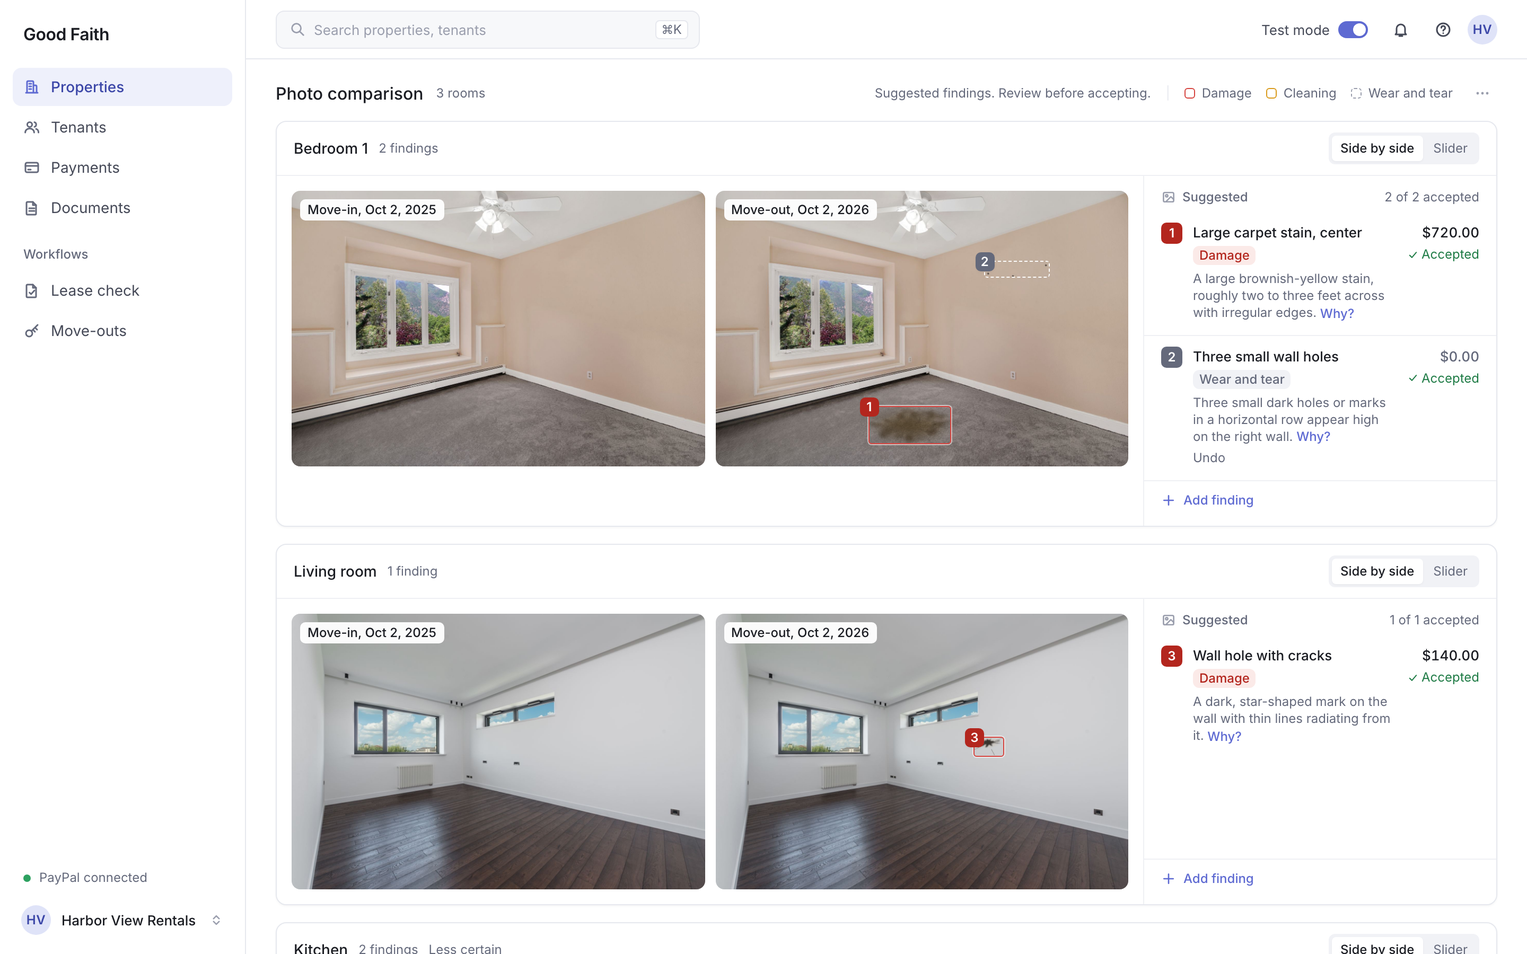
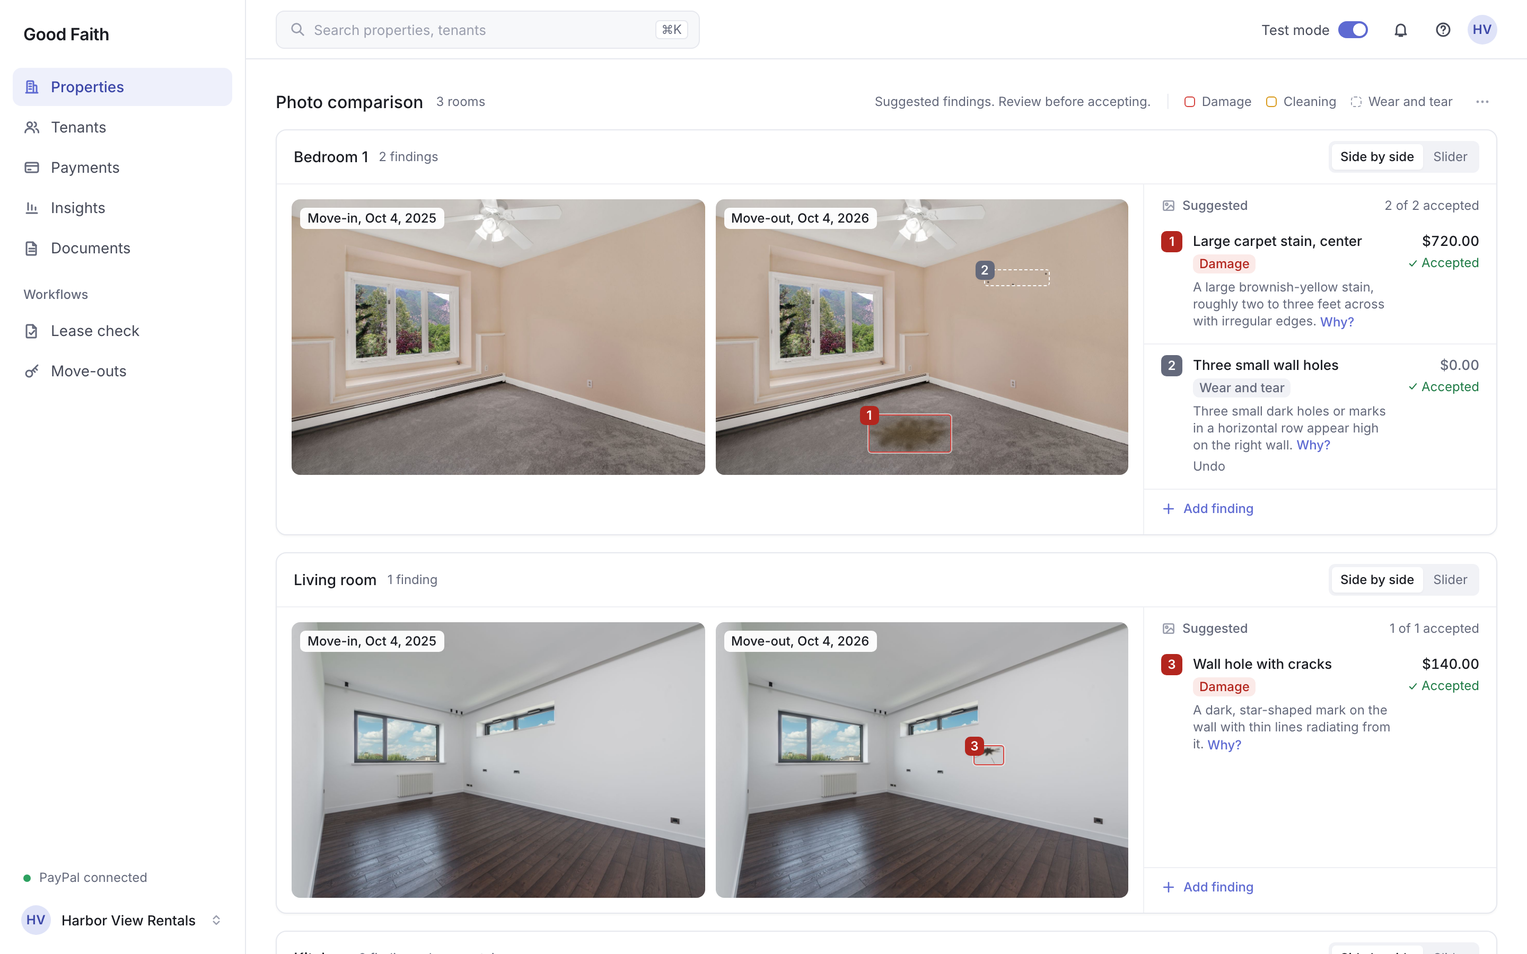
Audit before judging: every route checked, five-state copy, and the review's fixes
docs/AUDIT.md lists every page and API route, what was checked at desktop and
phone width in the owner workspace and a demo copy, and what to do before the
repository goes public. Stale California-only copy, the deploy doc, two README
screenshots and a dead Florida source are updated.

Review fixes: a settlement is refused when it would send more than the deposit
still holds after a PayPal dispute refund; the tenants' advocate and photo
allowances count per tenancy, so a new link no longer resets them; notices not
recorded after move-out read "Not recorded"; the lease check labels its law
cards with their state; small-claims limits split $12,500 / $6,250; the
settled unit's Payments tab reads "Deductions as settled"; no x-powered-by.

diff --git a/src/lib/limits.ts b/src/lib/limits.ts
@@ -14,8 +14,9 @@ import { currentSession } from "./session-server";
 // A Claude job is one unit however many calls it makes: an inspection is one call per room (up to
 // GOOD_FAITH_INSPECT_ROOMS), a close-out run up to twelve agent steps plus the steps after the approval, a tenant
 // advocate run up to eight steps, a negotiation run (the landlord's negotiator and the tenants' advocate taking turns)
-// at most six calls, counted as 'advocate' under the landlord's session. The tenants' own page has no session, so its jobs and uploads count under the tenant
-// link (takeTenantAllowance) with their own per-link limits, toward the same totals. The totals
+// at most six calls, counted as 'advocate' under the landlord's session. The tenants' own page has no session, so its jobs and uploads count under the
+// tenancy the tenant link is for (takeTenantAllowance), with their own per-tenancy limits, toward the same totals: a new
+// link for the same tenancy starts no new count. The totals
 // and the Anthropic console's spend limit are the real ceiling; the per-session limits are soft, since a new sign-in
 // is a new session.
 
@@ -39,7 +40,7 @@ export function dailyLimits() {
       invoice: envInt("GOOD_FAITH_DAILY_INVOICE", 5),
       tenancy: envInt("GOOD_FAITH_DAILY_TENANCY", 10),
       upload_mb: envInt("GOOD_FAITH_DAILY_UPLOAD_MB", 100),
-      advocate: envInt("GOOD_FAITH_DAILY_ADVOCATE", 3), // the landlord's negotiator runs (the tenants' advocate counts per link)
+      advocate: envInt("GOOD_FAITH_DAILY_ADVOCATE", 3), // the landlord's negotiator runs (the tenants' advocate counts per tenancy)
     } satisfies Record<UsageKind, number>,
     total: {
       lease: aiTotal,
@@ -50,9 +51,10 @@ export function dailyLimits() {
       upload_mb: envInt("GOOD_FAITH_DAILY_UPLOAD_MB_TOTAL", 400),
       advocate: aiTotal,
     } satisfies Record<UsageKind, number>,
-    /** What one tenant link may use a day: the tenants' advocate runs, and the megabytes of the photos they add to a
-     *  dispute. Counted under the link (tl:<link id>), not a session, toward the same totals. */
-    perTenantLink: {
+    /** What the tenants of one tenancy may use a day from their page: the advocate's runs, and the megabytes of the
+     *  photos they add to a dispute. Counted under the tenancy (tn:<tenancy id>), not a session or a link (a landlord can
+     *  make a new link at any time), toward the same totals. */
+    perTenancy: {
       advocate: envInt("GOOD_FAITH_DAILY_ADVOCATE", 3),
       upload_mb: envInt("GOOD_FAITH_DAILY_TENANT_UPLOAD_MB", 20),
     },
@@ -87,12 +89,12 @@ export async function takeAllowance(kind: UsageKind, units = 1): Promise<Allowan
   return take(session.sid, kind, units, session.kind === "owner" ? null : dailyLimits().perSession[kind]);
 }
 
-/** takeAllowance for the tenants' own page, which has no session: the units are counted under the tenant link that
- *  asked (one link per tenancy is live at a time), with that link's daily limit, toward the same day's totals. The
- *  refusal speaks to the tenants, not to a landlord trying the demo. */
-export async function takeTenantAllowance(linkId: string, kind: "advocate" | "upload_mb", units = 1): Promise<Allowance> {
-  const n = dailyLimits().perTenantLink[kind];
-  return take(`tl:${linkId}`, kind, units, n, (reason) => kind === "advocate"
+/** takeAllowance for the tenants' own page, which has no session: the units are counted under the tenancy the tenant
+ *  link is for, so a new link (Make a new link revokes the old one) starts no new count, with the per-tenancy daily
+ *  limit, toward the same day's totals. The refusal speaks to the tenants, not to a landlord trying the demo. */
+export async function takeTenantAllowance(tenancyId: string, kind: "advocate" | "upload_mb", units = 1): Promise<Allowance> {
+  const n = dailyLimits().perTenancy[kind];
+  return take(`tn:${tenancyId}`, kind, units, n, (reason) => kind === "advocate"
     ? reason === "session"
       ? `Your advocate can write your case ${n} times a day, and today's are used. You can still send your reasons as they are, or ask again tomorrow.`
       : "Your advocate can't take more cases today. You can still send your reasons as they are, or ask again tomorrow."

diff --git a/src/lib/settlement.ts b/src/lib/settlement.ts
@@ -6,7 +6,7 @@ import { depositBlock } from "./demo-pool";
 import { usd } from "./deductions";
 import { returnFailed, wasPaid } from "./invoice-status";
 import { PayPalRefused, SANDBOX, sendPayout, type Invoice } from "./paypal";
-import { railFor, REFUND_WINDOW_DAYS } from "./refund-rail";
+import { railFor, REFUND_WINDOW_DAYS, settlementRoom } from "./refund-rail";
 
 // The settlement's money: once the tenants accepted and the landlord approved, the amount agreed on top of the
 // statement's refund goes back through PayPal. The rail is the close-out's own rule (railFor, refund-rail.ts, read
@@ -20,7 +20,8 @@ import { railFor, REFUND_WINDOW_DAYS } from "./refund-rail";
 // settlementPlan, recomputed from the database and PayPal's live state right before PayPal is called, refuses a deposit
 // this workspace doesn't own (a demo copy's shared template payment), a live PayPal environment without a landlord
 // sign-in, PayPal unreachable, an unpaid deposit, a missing written agreement where the state needs one, a statement
-// whose own refund hasn't gone yet, and an amount the payment can't cover; and once the whole deposit went back (New
+// whose own refund hasn't gone yet, an amount the payment can't cover, and an amount more than the deposit still holds
+// after every return (settlementRoom: a PayPal dispute refund can leave less than was agreed); and once the whole deposit went back (New
 // York's forfeited deductions under a live dispute, refund-rail.ts), it moves no money at all. The close-out's other blockers (a charge
 // missing its documents, and the pack's own: Washington's move-in checklist, Florida's claim notice, New York's day 14,
 // Texas's forwarding address) limit what a landlord may keep, or when the statement's refund is owed; a settlement
@@ -84,8 +85,15 @@ export async function settlementPlan(tenancyId: string, amount: number): Promise
   // under a live dispute), the settlement has nothing left to send: it records what was agreed and moves no money.
   const back = cents(payments.filter((p) => ["refund", "payout", "settlement_refund", "settlement_payout", "dispute_refund"].includes(p.kind) && !returnFailed(p.status))
     .reduce((s, p) => s + Number(p.amount), 0));
-  if (f.totals.depositHeld - back <= 0.005) {
+  const room = settlementRoom({ amount, depositHeld: f.totals.depositHeld, returned: back });
+  if (room.left <= 0.005) {
     return { rail: "none", amount: 0, why: `The whole deposit, ${usd(f.totals.depositHeld)}, already went back to the tenants, so the settlement moves no more money.` };
+  }
+  // PayPal's refund through the tenants' PayPal dispute can leave less of the deposit than the agreed amount: the
+  // settlement never sends more than the deposit still holds, so nothing goes and a person decides.
+  if (!room.fits) {
+    const via = f.viaDispute?.amount ?? 0;
+    return { blocked: `Only ${usd(room.left)} of the ${usd(f.totals.depositHeld)} deposit is left${via > 0 ? `, after the ${usd(via)} PayPal returned through the tenants' PayPal dispute` : ""}, less than the ${usd(amount)} agreed. A settlement can't send more than the deposit still holds, so nothing was sent.` };
   }
 
   // What is left of the payment to refund: PayPal's own count, and ours (the statement's refund and any earlier

diff --git a/src/app/(landlord)/tenancy/[id]/page.tsx b/src/app/(landlord)/tenancy/[id]/page.tsx
@@ -524,7 +524,7 @@ export default async function TenancyPage({ params, searchParams }: PageProps<"/
 
       {tab === "documents" && (
         <Documents ws={t.ws} pack={pack} id={id} leasePath={t.lease_pdf_path as string | null} flags={flags} agreement={agreement} moveInCount={moveIn.length}
-          notices={summary.notices} refundNoticeNeeded={summary.refundNotice.needed} noticeGiven={!!summary.noticeGivenOn} inspectionExcused={inspectionExcused(summary)}
+          notices={summary.notices} refundNoticeNeeded={summary.refundNotice.needed} noticeGiven={!!summary.noticeGivenOn} movedOut={!!summary.moveOutDate} inspectionExcused={inspectionExcused(summary)}
           inspected={inspected} delivery={delivery} hasEvents={events.length > 0} />
       )}
 
@@ -615,7 +615,7 @@ function LogRow({ a, today }: { a: { entry: { actor: string; action: string; det
 async function Documents(p: {
   ws: Workspace; pack: StatePack; id: string; leasePath: string | null; flags: Flag[]; agreement: { signed_by: string[]; signed_at: string } | null; moveInCount: number;
   notices: Notices; refundNoticeNeeded: boolean | null;
-  noticeGiven: boolean; inspectionExcused: boolean; inspected: boolean; delivery: DeliveryRecord | null; hasEvents: boolean;
+  noticeGiven: boolean; movedOut: boolean; inspectionExcused: boolean; inspected: boolean; delivery: DeliveryRecord | null; hasEvents: boolean;
 }) {
   const leaseUrl = p.leasePath ? (await signedUrlsFor(p.ws, "leases", [p.leasePath])).get(p.leasePath) ?? null : null;
   const v = p.flags.filter((f) => f.severity === "violation").length;
@@ -625,6 +625,8 @@ async function Documents(p: {
     if (given) return { text: `Given ${shortDate(given.date)}`, tone: "green" as const, title: `Given by ${describeNoticeGiven(given)}` };
     if (kind === "electronic_refund" && p.refundNoticeNeeded === false) return { text: "Not needed", tone: "gray" as const, title: null };
     if (kind === "inspection" && p.inspectionExcused) return { text: "Not needed", tone: "gray" as const, title: "The tenants ended the tenancy with less than two weeks' notice" };
+    // Once the tenants moved out, a notice never recorded is just that, not one still to come.
+    if (p.movedOut) return { text: "Not recorded", tone: "gray" as const, title: null };
     return { text: p.noticeGiven ? "Draft" : "Not due yet", tone: p.noticeGiven ? "amber" as const : "gray" as const, title: null };
   };
   const rows: { name: string; sub: string; subTitle?: string; status: React.ReactNode; open: React.ReactNode; info?: React.ReactNode }[] = [

diff --git a/src/app/(landlord)/documents/page.tsx b/src/app/(landlord)/documents/page.tsx
@@ -4,7 +4,7 @@ import { InfoTip } from "@/components/info-tip";
 import { Card, EmptyState, PageHead, StatusChip, Table, Td, Th, trClass, type Tone } from "@/components/ui";
 import { pacificDate, shortDate } from "@/lib/dates";
 import { listedRecords, noticeInfoFor, NOTICE_SLUG, recordsFor, type NoticeKind } from "@/lib/notices";
-import { packOf } from "@/lib/next-step";
+import { inspectionExcused, packOf } from "@/lib/next-step";
 import { onePack, refundRecordWords } from "@/lib/states/server";
 import { splitAddress, tabHref } from "@/lib/property-view";
 import { loadUnits } from "@/lib/units";
@@ -26,11 +26,13 @@ export default async function DocumentsPage() {
     const info = noticeInfoFor(pack);
     const notice = (k: NoticeKind): Row => {
       const given = s.notices[k];
-      const notNeeded = k === "electronic_refund" && s.refundNotice.needed === false;
+      const notNeeded = (k === "electronic_refund" && s.refundNotice.needed === false) || (k === "inspection" && inspectionExcused(s));
+      // Once the tenants moved out, a notice never recorded is just that, not one still to come.
+      const draft = !given && !notNeeded && !s.moveOutDate && !!s.noticeGivenOn;
       return {
         key: `${s.id}-${k}`, name: cap(info[k]!.short),
-        status: given ? `Given ${shortDate(given.date)}` : notNeeded ? "Not needed" : s.noticeGivenOn ? "Draft" : "Not due yet",
-        tone: given ? "green" : notNeeded || !s.noticeGivenOn ? "gray" : "amber",
+        status: given ? `Given ${shortDate(given.date)}` : notNeeded ? "Not needed" : s.moveOutDate ? "Not recorded" : s.noticeGivenOn ? "Draft" : "Not due yet",
+        tone: given ? "green" : draft ? "amber" : "gray",
         href: `/tenancy/${s.id}/notices/${NOTICE_SLUG[k]}`, cite: info[k]!.cite,
       };
     };

diff --git a/src/app/(landlord)/lease/lease-check.tsx b/src/app/(landlord)/lease/lease-check.tsx
@@ -77,10 +77,13 @@ function Steps({ pack }: { pack: ClientPack }) {
   );
 }
 
-/** The three rules the state is known for, under the check. */
-function Law({ pack }: { pack: ClientPack }) {
+/** The three rules the state is known for, under the check, named for their state: before a lease is read they are
+ *  California's, and the line says so, so a Texas lease's check never reads as if California's rules applied to it. */
+function Law({ pack, read }: { pack: ClientPack; read: boolean }) {
   return (
-    <Card soft className="mt-6 grid divide-y divide-line-2 sm:grid-cols-3 sm:divide-x sm:divide-y-0">
+    <>
+    <p className="mt-6 text-xs text-ink-3">{read ? `${pack.name} rules` : `${pack.name} rules, until a lease's state is read`}</p>
+    <Card soft className="mt-2 grid divide-y divide-line-2 sm:grid-cols-3 sm:divide-x sm:divide-y-0">
       {pack.lease.law.map((l, i) => (
         <div key={l.label} className="px-4 py-3">
           <div className="text-sm font-medium">
@@ -90,6 +93,7 @@ function Law({ pack }: { pack: ClientPack }) {
         </div>
       ))}
     </Card>
+    </>
   );
 }
 
@@ -97,12 +101,13 @@ function Law({ pack }: { pack: ClientPack }) {
 // California's until a lease from another supported state is read.
 export function LeaseCheck() {
   const [code, setCode] = useState<string | null>(null);
-  const shown = code && isSupported(code) ? packFor(code) : CA;
+  const read = !!code && isSupported(code);
+  const shown = read ? packFor(code) : CA;
   return (
     <>
       <Steps pack={shown} />
       <Check code={code} setCode={setCode} />
-      <Law pack={shown} />
+      <Law pack={shown} read={read} />
     </>
   );
 }

diff --git a/src/app/(landlord)/tenancy/[id]/money.tsx b/src/app/(landlord)/tenancy/[id]/money.tsx
@@ -15,11 +15,16 @@ export function MoneyTimeline({ tenancyId, rows, typeTip }: { tenancyId: string;
   // One hero: what is still held while the deposit is held, what went back once a refund or payout has gone out.
   const back = t.returned + t.pending > 0;
   const hero = (n: number) => <Money value={n} cents="small" phoneCents="full" />;
+  // A settlement's money comes off the deductions (ledgerTotals), so the figure is the deductions as settled, named as
+  // the amended statement names it, with the statement's own total under it.
+  const settled = Math.round(rows.filter((r) => r.kind === "settlement" && (r.effect === "returned" || r.effect === "pending")).reduce((s, r) => s + r.amount, 0) * 100) / 100;
   return (
     <div className="flex flex-col gap-6">
       <FactStrip cols={4}>
         <Fact label="Collected" value={<Money value={t.collected} />} />
-        <Fact label="Deductions" value={<Money value={t.deducted} />} sub={t.drafted > 0 ? (t.drafted === t.deducted ? "Drafts" : `${shortMoney(t.drafted)} drafted`) : undefined} />
+        {settled > 0
+          ? <Fact label="Deductions as settled" value={<Money value={t.deducted} />} sub={`${shortMoney(t.deducted + settled)} less ${shortMoney(settled)} settled`} />
+          : <Fact label="Deductions" value={<Money value={t.deducted} />} sub={t.drafted > 0 ? (t.drafted === t.deducted ? "Drafts" : `${shortMoney(t.drafted)} drafted`) : undefined} />}
         {/* The hero is always the last cell. */}
         {back ? <Fact label="Still held" value={<Money value={t.held} />} />
           : <Fact label="Returned" value={<Money value={t.returned} />} />}

diff --git a/src/app/(landlord)/tenancy/[id]/notices/[kind]/page.tsx b/src/app/(landlord)/tenancy/[id]/notices/[kind]/page.tsx
@@ -102,7 +102,7 @@ export default async function NoticePage({ params }: PageProps<"/tenancy/[id]/no
                 <p>
                   <b>To request an inspection,</b> tell {landlord} in writing or by phone at <Blank w="w-56" />. We will try to schedule it
                   at a date and time that works for both of us. The inspection can take place no earlier than two weeks before the tenancy
-                  ends{windowOpens && ends ? <>: on or after <b>{longDate(windowOpens)}</b> for a {longDate(ends)} move-out</> : null}.
+                  ends{windowOpens && ends ? <>: on or after <b>{longDate(windowOpens)}</b> for the {longDate(ends)} move-out</> : null}.
                 </p>
                 <p>
                   You will receive at least {INSPECTION_NOTICE_HOURS} hours&apos; written notice of the date and time of the inspection, unless
@@ -140,7 +140,7 @@ export default async function NoticePage({ params }: PageProps<"/tenancy/[id]/no
                 </p>
                 <p>
                   The remainder of the security deposit and an itemized statement of any deductions are due no later than 21 calendar days
-                  after you vacate{ends ? <>; for a {longDate(ends)} move-out, that is {longDate(statementDue(ends, pack))}</> : null} (Civil Code section 1950.5(h)(1)).
+                  after you vacate{ends ? <>; for the {longDate(ends)} move-out, that is {longDate(statementDue(ends, pack))}</> : null} (Civil Code section 1950.5(h)(1)).
                 </p>
                 {t.tenants.length > 1 && (
                   <p>

diff --git a/src/lib/states/ny.ts b/src/lib/states/ny.ts
@@ -324,7 +324,7 @@ export const NY: ClientPack = {
         { p: "You have the right to request an inspection of the unit before you vacate it, and the right to be present at it." },
         { p: `If you request it, the inspection will be held no earlier than two weeks and no later than one week before the end of the tenancy${c.windowOpens && c.windowCloses ? `: between ${longDate(c.windowOpens)} and ${longDate(c.windowCloses)}` : ""}, with at least 48 hours' written notice of the date and time. To request it, tell ${c.landlord} in writing or by phone at [[blank:w-56]].` },
         { p: "After the inspection you will receive an itemized statement of the repairs or cleaning proposed as deductions from your security deposit, and you may fix them before the tenancy ends." },
-        { p: `Within 14 days after you vacate, you will receive an itemized statement of any amount kept and the rest of your deposit${c.due ? `; for a ${c.ends ? longDate(c.ends) : ""} move-out, by ${longDate(c.due)}` : ""}.` },
+        { p: `Within 14 days after you vacate, you will receive an itemized statement of any amount kept and the rest of your deposit${c.due ? `; for the ${c.ends ? longDate(c.ends) : ""} move-out, by ${longDate(c.due)}` : ""}.` },
       ],
       response: ["I request an inspection before I move out. Dates and times that work for me: [[blank:w-64]]", "I do not request an inspection."],
     },

diff --git a/src/app/api/t/[token]/dispute/advocate/route.ts b/src/app/api/t/[token]/dispute/advocate/route.ts
@@ -9,7 +9,7 @@ export const maxDuration = 300;
 
 // "Ask my advocate": the tenants' advocate reads the file and writes their case (src/lib/advocate.ts), which the code
 // checks against the lawful range before it is saved on the draft. One run at a time per dispute (claimed in the
-// database, so a double tap can't spend two Claude calls), counted against the link's daily allowance before Claude
+// database, so a double tap can't spend two Claude calls), counted against the tenancy's daily allowance before Claude
 // is called, and given back when Claude never answered.
 export async function POST(_req: Request, ctx: RouteContext<"/api/t/[token]/dispute/advocate">) {
   const { token } = await ctx.params;
@@ -31,7 +31,7 @@ export async function POST(_req: Request, ctx: RouteContext<"/api/t/[token]/disp
   const release = (status: "done" | "failed" | null, error: string | null) =>
     db.from("disputes").update({ advocate_status: status, advocate_error: error, updated_at: new Date().toISOString() }).eq("id", dispute.id);
 
-  const allowance = await takeTenantAllowance(link.linkId, "advocate");
+  const allowance = await takeTenantAllowance(link.tenancyId, "advocate");
   if (allowance.refused) {
     // Nothing ran: the draft goes back to where it was (its earlier case, if it had one).
     await release(dispute.advocate ? "done" : null, null);

diff --git a/src/lib/refund-rail.ts b/src/lib/refund-rail.ts
@@ -43,6 +43,15 @@ export function settledExtra(o: { agreed: number; depositHeld: number; refunded:
   return Math.round(Math.max(0, Math.min(o.agreed, o.depositHeld - o.refunded)) * 100) / 100;
 }
 
+/** What a settlement may still send: the deposit less every return that didn't fail (the statement's refund, an
+ *  earlier Payout, PayPal's refunds through the tenants' PayPal dispute). The agreed amount goes only when it fits:
+ *  a PayPal dispute refund can leave less of the deposit than the lawful range assumed, and paying the agreed amount
+ *  then would send back money the deposit never held. The settlement pages show the same ceiling (settledExtra). */
+export function settlementRoom(o: { amount: number; depositHeld: number; returned: number }): { left: number; fits: boolean } {
+  const left = Math.round(Math.max(0, o.depositHeld - o.returned) * 100) / 100;
+  return { left, fits: o.amount <= left + 0.005 };
+}
+
 /** Whether the close-out returns the whole deposit with deductions still on file: they are forfeited (New York after
  *  day 14) and a dispute the tenants sent holds them, so they can't be removed first. Otherwise a forfeiture blocks the
  *  refund until the landlord removes them, and the close-out never sends less than the whole deposit either way. */

diff --git a/src/app/api/t/[token]/dispute/evidence/route.ts b/src/app/api/t/[token]/dispute/evidence/route.ts
@@ -9,7 +9,7 @@ export const runtime = "nodejs";
 export const maxDuration = 60;
 
 // The tenants' own photos for their dispute (a draft only), each for one disputed deduction. Checked by their
-// bytes like every upload, counted against the link's daily upload allowance, stored in the private photos bucket
+// bytes like every upload, counted against the tenancy's daily upload allowance, stored in the private photos bucket
 // under the tenancy's workspace prefix, and added to the draft under its row lock, at most MAX_EVIDENCE in all.
 export async function POST(req: Request, ctx: RouteContext<"/api/t/[token]/dispute/evidence">) {
   const { token } = await ctx.params;
@@ -38,7 +38,7 @@ export async function POST(req: Request, ctx: RouteContext<"/api/t/[token]/dispu
     if (!type) return bad(notAPhotoServer(f.name));
     checked.push({ file: f, bytes, type });
   }
-  const allowance = await takeTenantAllowance(link.linkId, "upload_mb", uploadUnits(checked.reduce((n, c) => n + c.bytes.length, 0)));
+  const allowance = await takeTenantAllowance(link.tenancyId, "upload_mb", uploadUnits(checked.reduce((n, c) => n + c.bytes.length, 0)));
   if (allowance.refused) return allowance.refused;
 
   const prefix = evidencePrefix(facts.workspaceId, link.tenancyId, dispute.id);

diff --git a/src/lib/states/ca.ts b/src/lib/states/ca.ts
@@ -111,7 +111,7 @@ export const CA: ClientPack = {
   },
   chip: {
     title: "California Civil Code 1950.5",
-    text: "This property is in California, so its deposit follows Civil Code 1950.5 as amended through AB 414 (2026): the cap, the move-in and move-out photos, the electronic refund, and the itemized statement and refund within 21 days.",
+    text: "This property is in California, so its deposit follows Civil Code 1950.5 as amended by AB 414 (2025), effective January 1, 2026: the cap, the move-in and move-out photos, the electronic refund, and the itemized statement and refund within 21 days.",
     cite: "Civ. Code 1950.5",
   },
   courtsGuide: { label: "Courts' guide", url: "https://selfhelp.courts.ca.gov/guide-security-deposits-california" },
@@ -157,7 +157,7 @@ export const CA: ClientPack = {
       },
       {
         label: "Electronic refunds",
-        line: "Since Jan 1, 2026, with written consent",
+        line: "Since 2026; PayPal with written consent",
         fact: "Since January 1, 2026, a landlord who received the deposit or the rent electronically must refund the deposit electronically. PayPal counts only if the tenant agreed to it in writing.",
         cite: "Civ. Code 1950.5(h)(1)(A), AB 414",
       },
